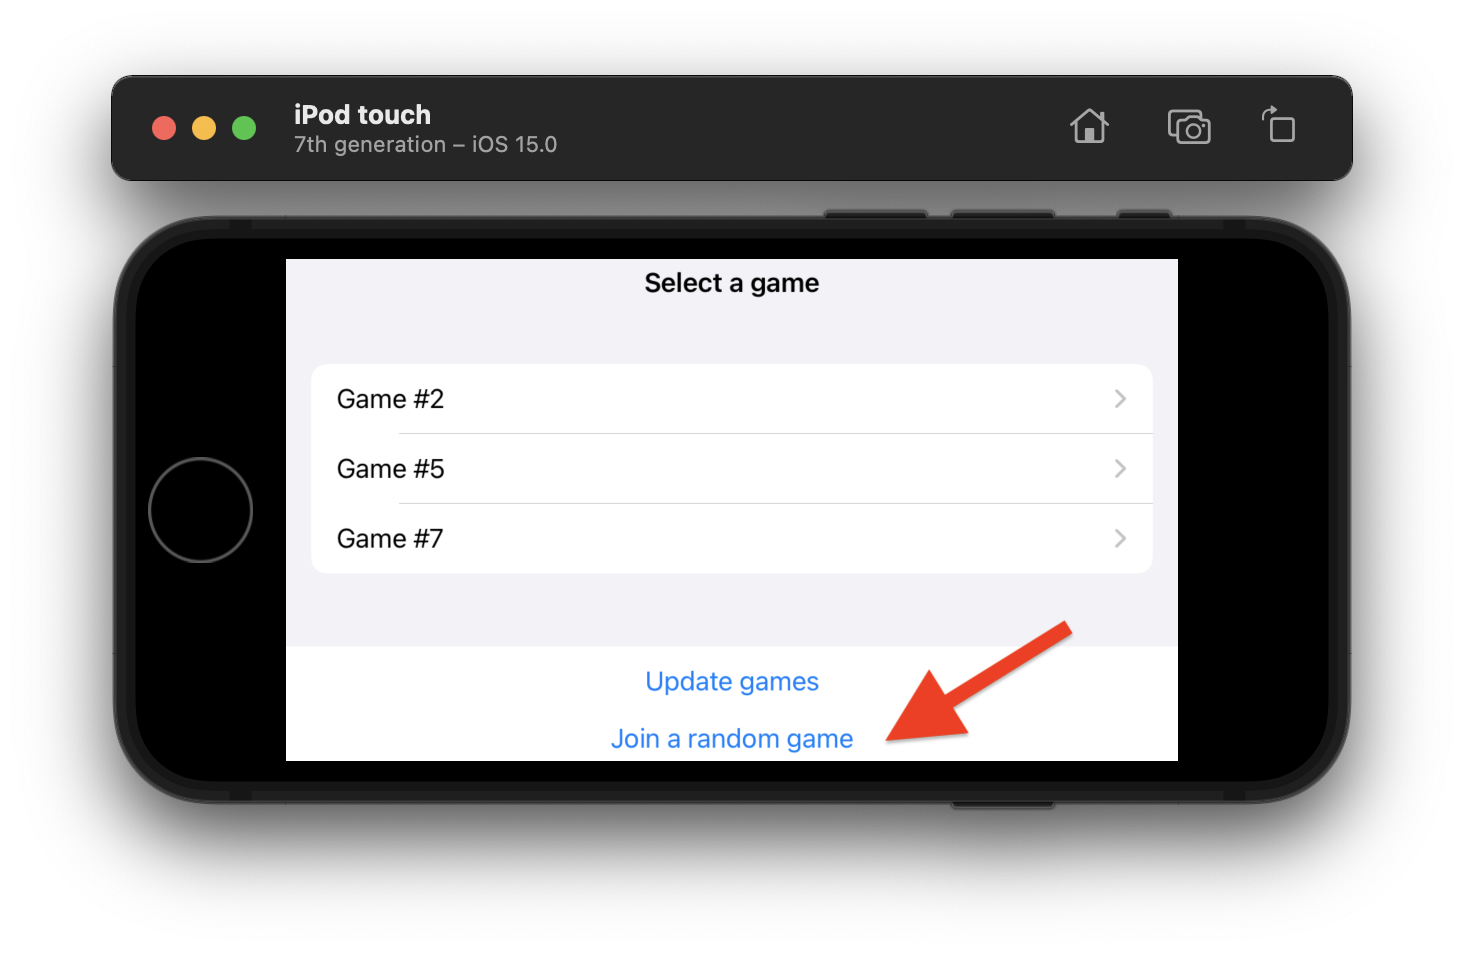
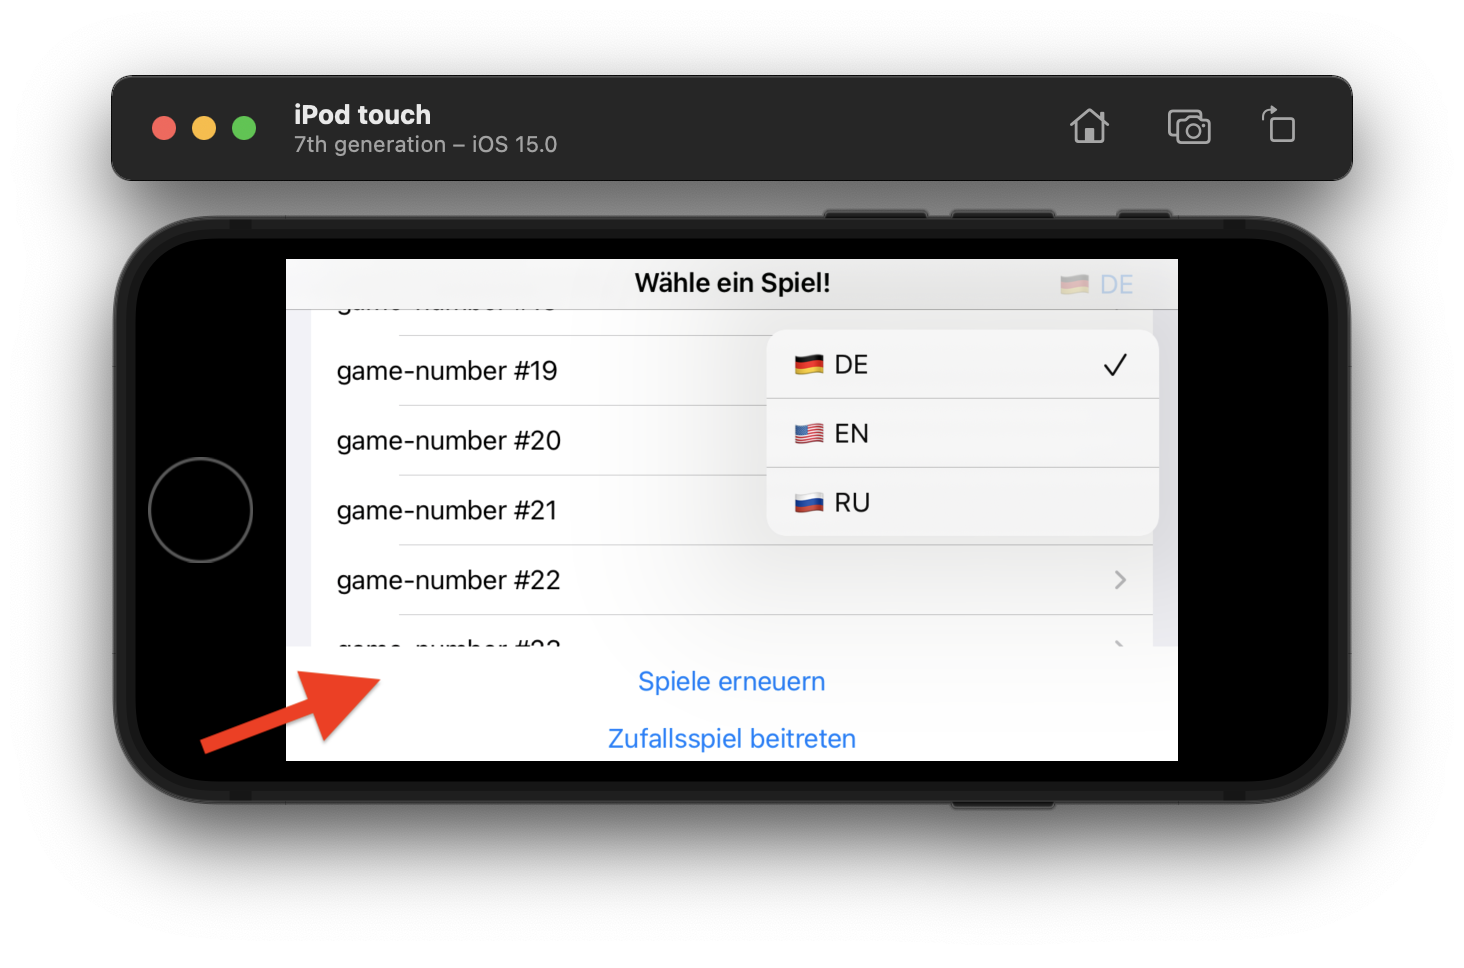
Try to localize game number (does not work)

diff --git a/NaviLinkLocalized/NaviLinkLocalized/ContentView.swift b/NaviLinkLocalized/NaviLinkLocalized/ContentView.swift
@@ -39,7 +39,7 @@ struct ContentView: View {
                     NavigationLink(
                             destination: GameView(gameNumber: gameNumber)
                         ) {
-                        Text("Game #\(gameNumber)")
+                        Text("game-number #\(gameNumber)")
                     }
                 }
                 Button(

diff --git a/NaviLinkLocalized/NaviLinkLocalized/GameView.swift b/NaviLinkLocalized/NaviLinkLocalized/GameView.swift
@@ -15,7 +15,7 @@ struct GameView: View {
     }
 
     var body: some View {
-        Text("Game #\(gameNumber)")
+        Text("game-number #\(gameNumber)")
     }
 }
 
